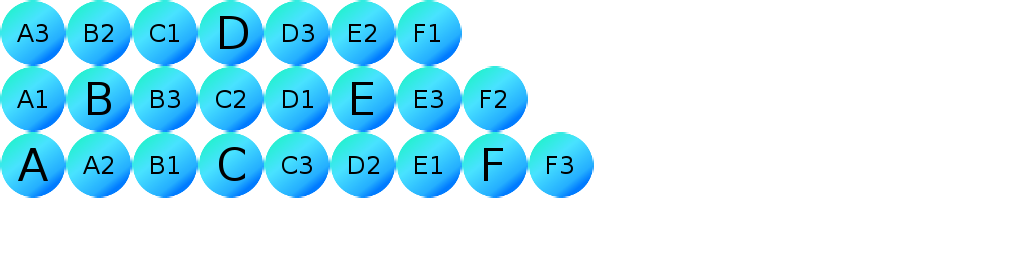
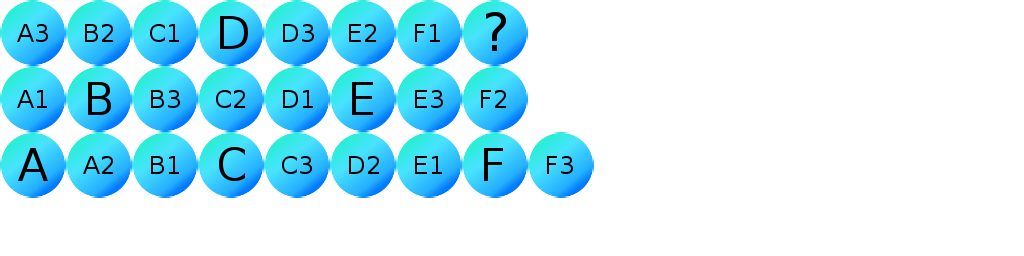
Kysymysnamiska

Changed region(s): [[0.4375, 0.0, 0.5312, 0.2812]]

diff --git a/core/src/fi/ymcafinland/demo/scenes/HUD.java b/core/src/fi/ymcafinland/demo/scenes/HUD.java
@@ -46,6 +46,7 @@ public class HUD {
     protected Button child1;
     protected Button child2;
     protected Button child3;
+    Button kysymys;
     protected boolean montaLasta;
     Skin karttaSkin;
     TextureAtlas atlas;
@@ -91,7 +92,7 @@ public class HUD {
      * @param solmu
      */
     private void createListeners(final PlayScreen screen, final Solmu solmu) {
-        //ToDo Copypastat vittuun ja child 1 2 3 entä jos erimäärä lapsia?
+        //ToDo Listener kysymysnapille.
 
         if (hasParent) {
             parent.addListener(new ChangeListener() {
@@ -118,18 +119,16 @@ public class HUD {
                     screen.setSolmu(laps.get(0));
                 }
             });
-        }
-        child2.addListener(new ChangeListener() {
-            public void changed(ChangeEvent event, Actor actor) {
-                ArrayList<Solmu> laps = solmu.getLapset();
-                if (!montaLasta) {
-                    screen.setSolmu(laps.get(0));
-                } else {
-                    screen.setSolmu(laps.get(1));
+
+            child2.addListener(new ChangeListener() {
+                public void changed(ChangeEvent event, Actor actor) {
+                    ArrayList<Solmu> laps = solmu.getLapset();
+
+                        screen.setSolmu(laps.get(1));
+
                 }
-            }
-        });
-        if(montaLasta) {
+            });
+
             child3.addListener(new ChangeListener() {
                 public void changed(ChangeEvent event, Actor actor) {
                     ArrayList<Solmu> laps = solmu.getLapset();
@@ -161,7 +160,7 @@ public class HUD {
         stage.clear();
         this.solmu = solmu;
         hasParent = solmu.getMutsi() != null;
-        montaLasta = solmu.getLapset().size() > 1;
+        montaLasta = solmu.getLapset().size() > 0;
         buttonCreation(solmu);
         createTable();
         createListeners(screen, solmu);
@@ -191,9 +190,14 @@ public class HUD {
         Table tableBot = new Table();
         tableBot.bottom();
         tableBot.setFillParent(true);
-        tableBot.add(child1).expand().bottom().left().padBottom(2);
-        tableBot.add(child2).expand().bottom().padBottom(2);
-        tableBot.add(child3).expand().bottom().right().padBottom(2);
+        if(montaLasta) {
+            tableBot.add(child1).expand().bottom().left().padBottom(2);
+            tableBot.add(child2).expand().bottom().padBottom(2);
+            tableBot.add(child3).expand().bottom().right().padBottom(2);
+        }
+        else {
+            tableBot.add(kysymys).expand().bottom().padBottom(2);
+        }
         stage.addActor(tableBot);
     }
 
@@ -221,31 +225,43 @@ public class HUD {
 
         ArrayList<Solmu> lapset = solmu.getLapset();
 
-        //ToDo mitä jos eri määrä lapsia?
-        //tiedetään, että lapsia on vain yksi -V
+
 
         if (montaLasta) {
+            if(kysymys != null) {
+                kysymys.setVisible(false);
+                kysymys.setDisabled(true);
+            }
             styleChild1.up = skin.getDrawable(lapset.get(0).getMiniKuva());
             child1 = new Button(styleChild1);
             styleChild2.up = skin.getDrawable(lapset.get(1).getMiniKuva());
             child2 = new Button(styleChild2);
             styleChild3.up = skin.getDrawable(lapset.get(2).getMiniKuva());
             child3 = new Button(styleChild2);
-        } else {
-            if(!lapset.isEmpty()) {
-                styleChild2.up = skin.getDrawable(lapset.get(0).getMiniKuva());
-                child2 = new Button(styleChild2);
+        } else{
 
-            }
+            child1.setVisible(false);
+            child2.setVisible(false);
+            child3.setVisible(false);
+            child1.setDisabled(true);
+            child2.setDisabled(true);
+            child3.setDisabled(true);
+
+
+            Button.ButtonStyle styleKysymys = new Button.ButtonStyle();
+            styleKysymys.up = skin.getDrawable("mini_kysymys");
+            kysymys = new Button(styleKysymys);
+
         }
     }
+
 
     /**
      * Grafiikkaa nappuloille
      */
     private void skinAndStyleCreation() {
 
-    karttaSkin = new Skin();
+        karttaSkin = new Skin();
 
         Pixmap pixmap = new Pixmap(1, 1, Pixmap.Format.RGBA8888);
         pixmap.setColor(Color.WHITE);
